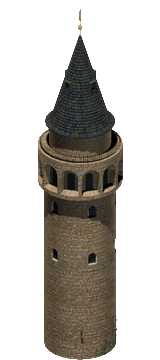
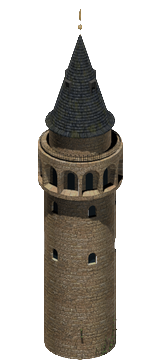
Rebuild tower sprite with higher alpha floor to trim base fringe
- Raise alpha floor from 160 to 180 in manifest and lockfile for Galata-Tower_0003.
- Regenerate tower.png and update CREDITS.md to document the change.

diff --git a/CREDITS.md b/CREDITS.md
@@ -139,10 +139,11 @@ corner ~12–17% off centre and fails `build.py --check`. Nothing is redrawn.
 - **License:** [CC-BY 3.0](https://creativecommons.org/licenses/by/3.0/)
 - **Used for:** `assets/buildings/tower.png`.
 
-**Changes made.** One of the pack's eight directions (`Galata-Tower_0003`) is
+**Changes made.** One of the pack's eight directions (`Galata-Tower_0003`,
+chosen because its bottom row measures the smallest base span and offset) is
 cropped to alpha, scaled to the client's 160x360 canvas and luminance-matched.
 The source is a tall, round tower whose anti-aliased base would otherwise widen
-the lowest opaque row past the `iso_base` gate after downscaling, so a 160 alpha
+the lowest opaque row past the `iso_base` gate after downscaling, so a 180 alpha
 floor trims that fringe before the crop and again after the fit. No artwork is
 redrawn.
 
